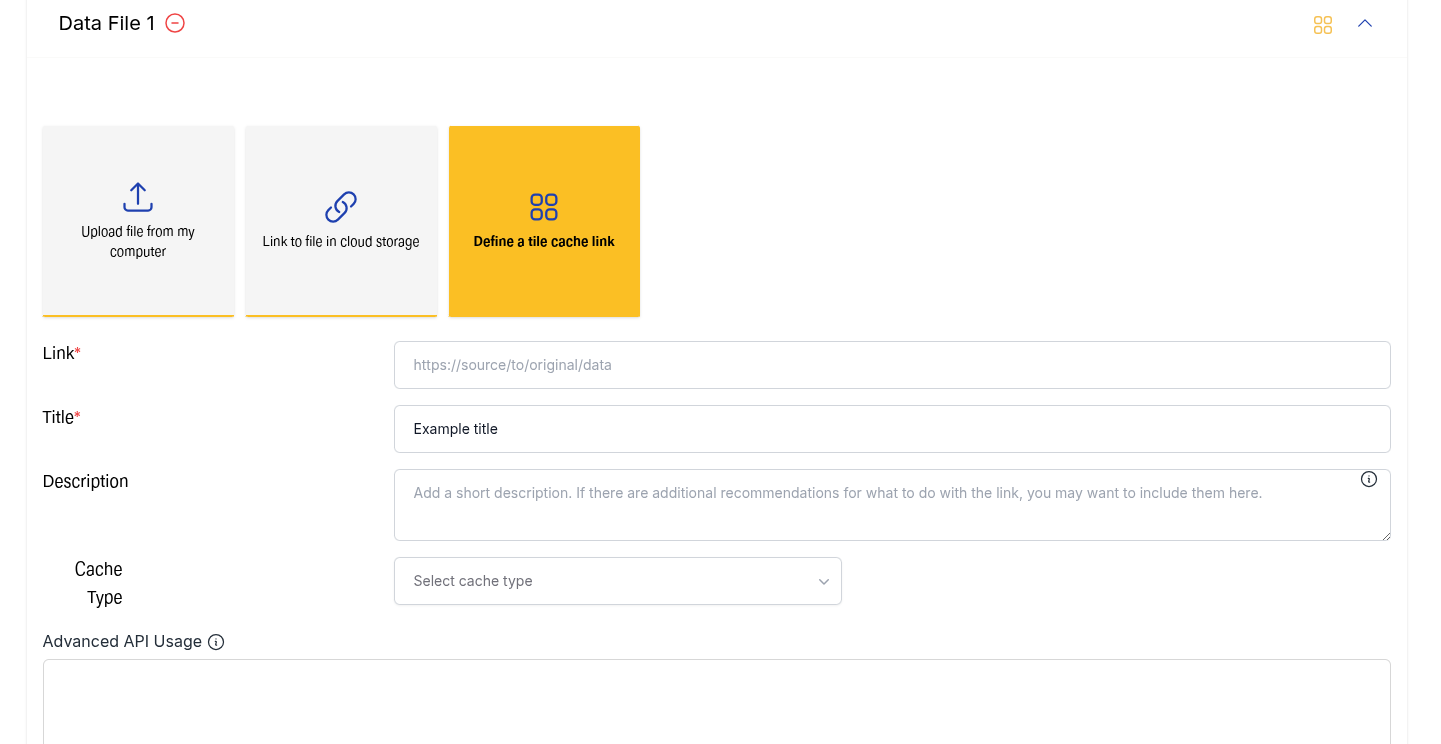
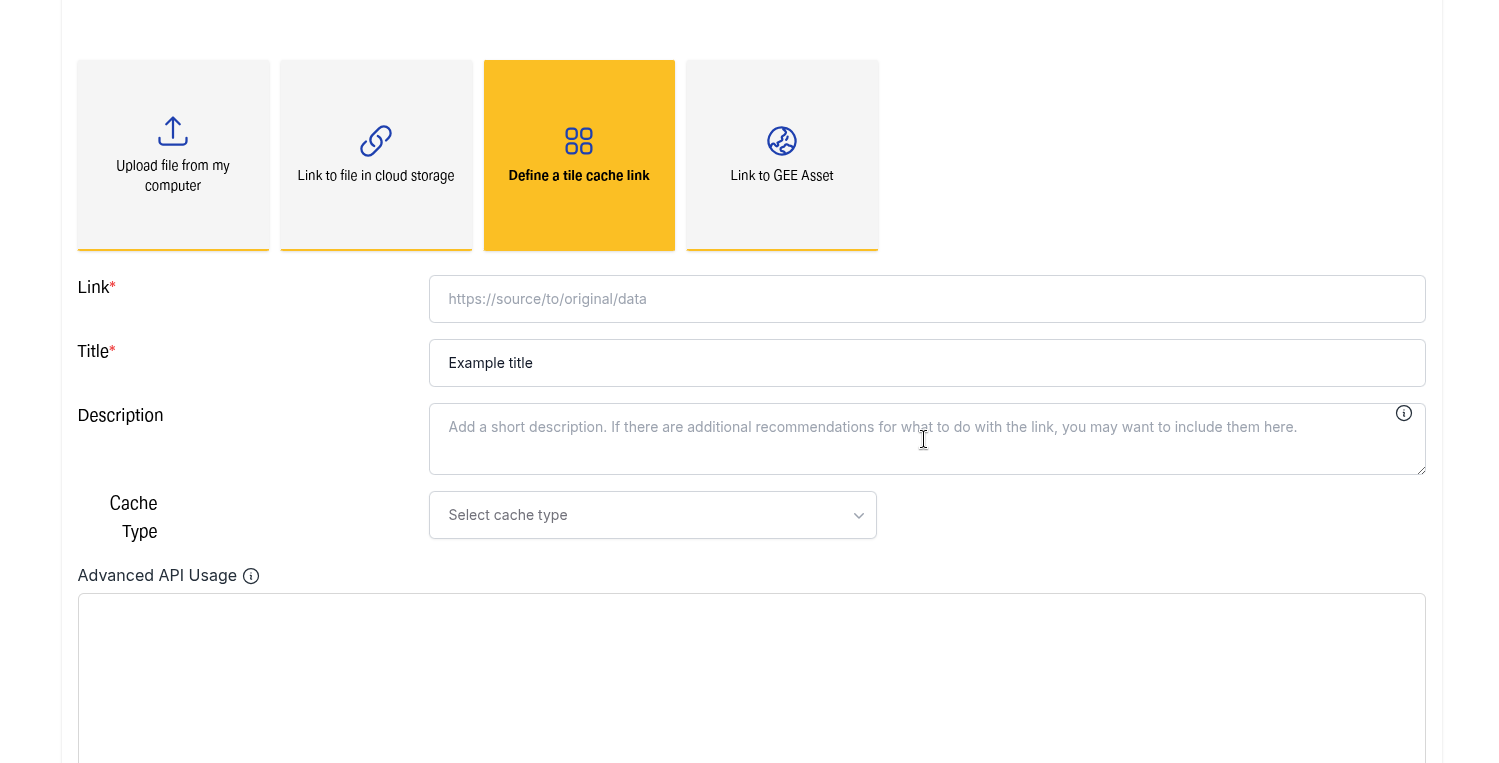
Update docs

diff --git a/docs/datasets/README.md b/docs/datasets/README.md
@@ -141,6 +141,10 @@ If you want to link a tilecache URL you can click on ¨Define a tile cache link"
 
 ![Link tilecache](./select_tile_cache.png)
 
+If you want to describe a GEE Asset you can click on ¨Link to GEE Asset", this is essentially a resource with `url_type` set to `gee-asset` and with the `asset_type` field set to 'raster' or 'vector' and the `asset_id` field pointing to the asset id in GEE.
+
+![Link gee-asset](./select_gee_asset.png)
+
 You can add multiple datafiles by selecting the `Add another datafile button`
 
 ![Add another datafile](./add_another_datafile.png)
